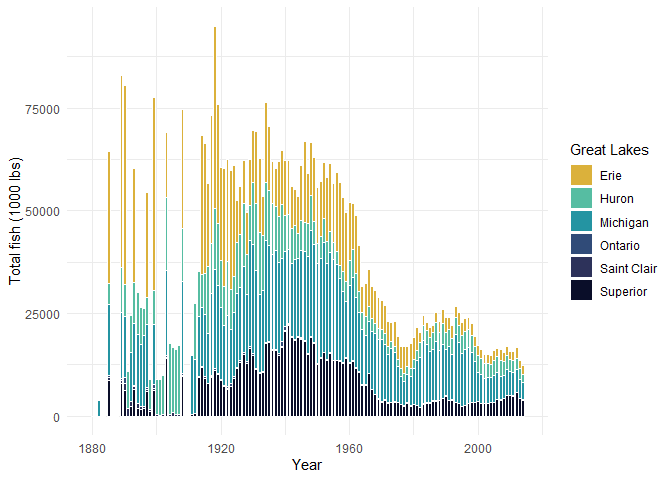
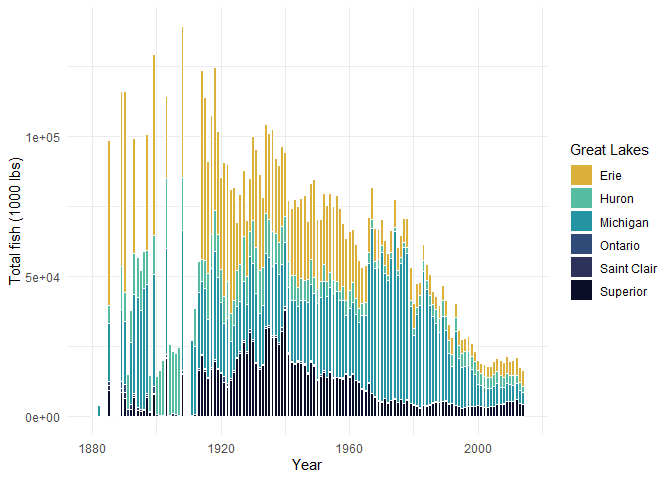
finish tt week 23

diff --git a/tt2021-6-15.md b/tt2021-6-15.md
@@ -3,21 +3,27 @@ Great Lakes Fishery Commission
 Alexandria Hughes
 | Tidy Tuesday 6/15/2021
 
+Read in the data:
+
 ``` r
 fishing <- readr::read_csv('https://raw.githubusercontent.com/rfordatascience/tidytuesday/master/data/2021/2021-06-08/fishing.csv')
 stocked <- readr::read_csv('https://raw.githubusercontent.com/rfordatascience/tidytuesday/master/data/2021/2021-06-08/stocked.csv')
 ```
 
-``` r
-fishing2 <- fishing %>% 
-  filter(str_detect(region, "U.S. Total")) %>% 
-  filter(!is.na(region)) %>% 
-  mutate(species = fct_lump(species, 12)) %>% 
-  filter(species != "Other") 
-```
+Remove Canadian and redundant (individual state) regions; only keep U.S.
+totals:
 
 ``` r
-totfishperlake <- fishing2 %>% 
+fishing_m <- fishing %>% 
+  filter(str_detect(region, "U.S. Total")) %>%
+  filter(!is.na(region)) 
+```
+
+There are 51 species of fish reported across the 6 lakes. How does the
+amount of fish change over time?
+
+``` r
+totfishperlake <- fishing_m %>% 
   group_by(year,lake) %>% 
   summarize(total_fish = sum(values, na.rm=TRUE))
 #totfishperlake
@@ -35,6 +41,69 @@ ggplot(totfishperlake, aes(x=year, y=total_fish, fill=lake))+
 ![](tt2021-6-15_files/figure-gfm/unnamed-chunk-5-1.png)<!-- -->
 
 ``` r
+relfish <- merge(fishing_m, totfishperlake) %>% 
+  filter(total_fish != 0) %>%
+  mutate(freq_fish = values/total_fish) %>%
+  select(year, lake, species, values, total_fish, freq_fish)
+head(relfish)
+```
+
+    ##   year  lake               species values total_fish freq_fish
+    ## 1 1879  Erie        Lake Whitefish   3334       5304 0.6285822
+    ## 2 1879  Erie Walleye and Blue Pike     NA       5304        NA
+    ## 3 1879  Erie         Lake Sturgeon   1970       5304 0.3714178
+    ## 4 1879  Erie                 Cisco     NA       5304        NA
+    ## 5 1879  Erie         Northern Pike     NA       5304        NA
+    ## 6 1879 Huron        Lake Whitefish   2701       5237 0.5157533
+
+Try displaying ranked relative frequencies with a bump chart:
+<https://github.com/davidsjoberg/ggbump>
+
+``` r
+library(ggbump)
+```
+
+Need ‘rank’ for ggbump:
+
+``` r
+relfishbump <- relfish %>%
+    mutate(species=fct_lump(species, 12)) %>% 
+  filter(species!="Other") %>%
+  group_by(lake, year) %>%
+  filter(!is.na(freq_fish)) %>%
+  mutate(rank = rank(freq_fish, ties.method = "random")) %>%
+  ungroup() 
+
+#View(relfishbump)
+```
+
+``` r
+relfishbump %>% filter(rank < 7 & lake == "Superior") %>%
+ggplot(aes(x=year, y=rank, color=species))+
+  geom_point(size = 4) +
+  geom_bump(size = 1.5, smooth = 8) +
+  theme_minimal_grid(font_size = 11, line_size = 0) +
+  theme(legend.position = "top", panel.grid.major = element_blank()) +
+  labs(y = "RANK", x = "", color="SPECIES") +
+  scale_y_reverse() +
+  xlim(1970, 2015)+
+  scale_color_viridis_d()
+```
+
+![](tt2021-6-15_files/figure-gfm/unnamed-chunk-9-1.png)<!-- -->
+
+Now try out ggridges. Limit to top 12 species so there isn’t too much
+going on:
+
+``` r
+fishing2 <- fishing %>% 
+  filter(str_detect(region, "U.S. Total")) %>% 
+  filter(!is.na(region)) %>% 
+  mutate(species=fct_lump(species, 12)) %>% 
+  filter(species!="Other") 
+```
+
+``` r
 fishing2 %>%
   ggplot(aes(x=year, y=lake, fill=lake))+
   geom_density_ridges(
@@ -48,7 +117,7 @@ fishing2 %>%
   labs(x="Year", y="Great Lakes")
 ```
 
-![](tt2021-6-15_files/figure-gfm/unnamed-chunk-6-1.png)<!-- -->
+![](tt2021-6-15_files/figure-gfm/unnamed-chunk-11-1.png)<!-- -->
 
 ``` r
 fishing2 %>%
@@ -64,4 +133,4 @@ fishing2 %>%
   labs(x="Year", y="Species")
 ```
 
-![](tt2021-6-15_files/figure-gfm/unnamed-chunk-7-1.png)<!-- -->
+![](tt2021-6-15_files/figure-gfm/unnamed-chunk-12-1.png)<!-- -->
